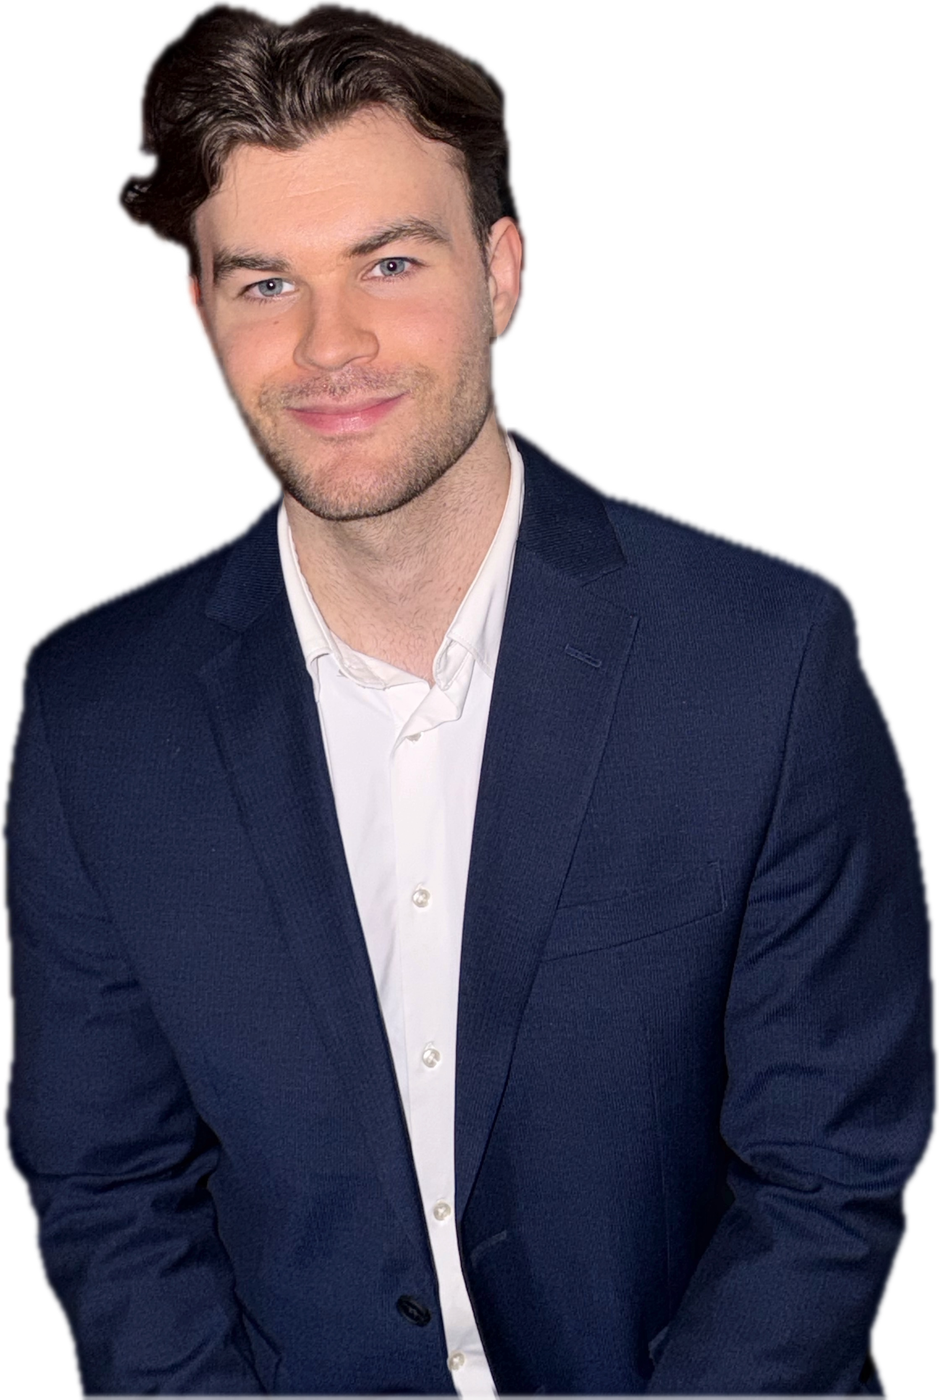
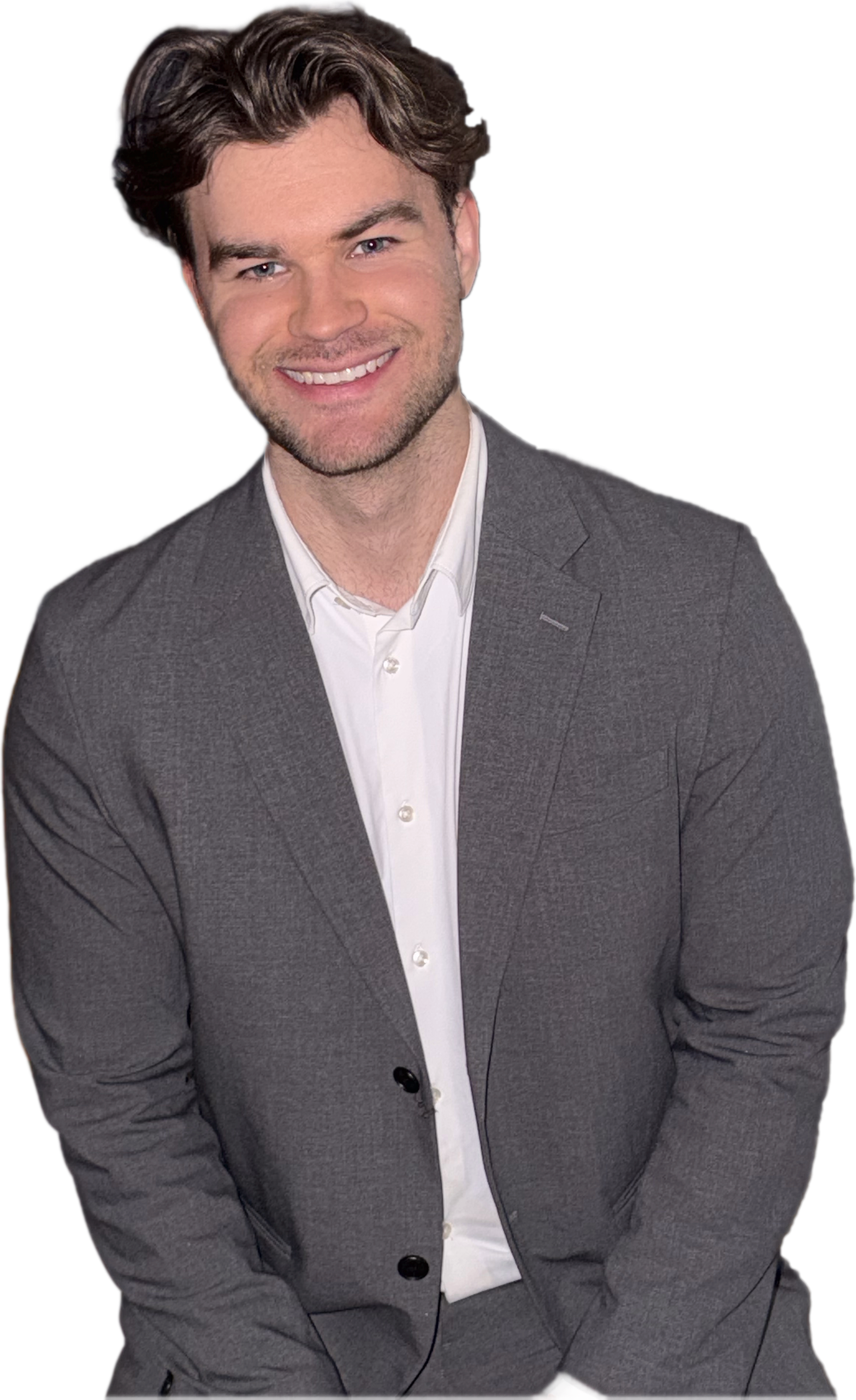
Hero: new portrait (grey blazer)

diff --git a/index.html b/index.html
@@ -66,7 +66,7 @@
     <div class="flames" aria-hidden="true">
       <span></span><span></span><span></span><span></span>
     </div>
-    <div class="ph-hero hero-portrait"><img src="piotr-color.png" alt="Piotr Spychalski" width="939" height="1400" /></div>
+    <div class="ph-hero hero-portrait"><img src="piotr-color.png?v=2" alt="Piotr Spychalski" width="856" height="1400" /></div>
     <img class="hero-signature" src="signature-white.png" alt="Piotr Spychalski’s signature" width="900" height="553" />
 
     <nav class="nav container">

diff --git a/case-study.html b/case-study.html
@@ -183,7 +183,7 @@
       <p class="kicker">Team &amp; contact</p>
       <h2>Talk to the <em>engineer</em></h2>
       <div class="person">
-        <img src="piotr-color.png" alt="Piotr Spychalski" />
+        <img src="piotr-color.png?v=2" alt="Piotr Spychalski" />
         <div><b>Piotr Spychalski</b><span>Project Manager · Mechanical Engineer · Ottawa, ON</span>
           <a href="mailto:piotr.spychalski12@gmail.com">piotr.spychalski12@gmail.com →</a></div>
       </div>
